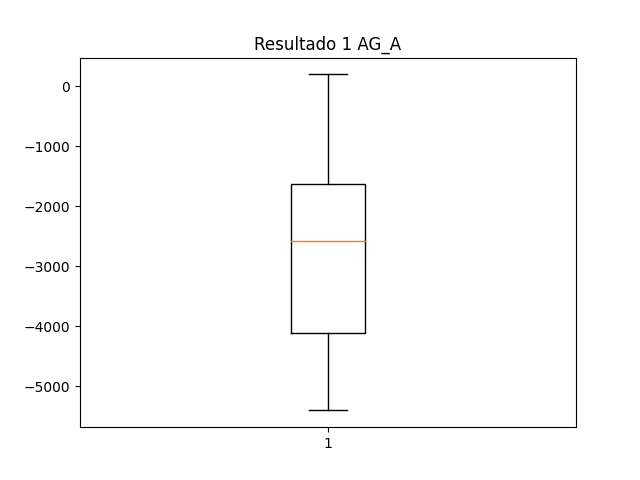
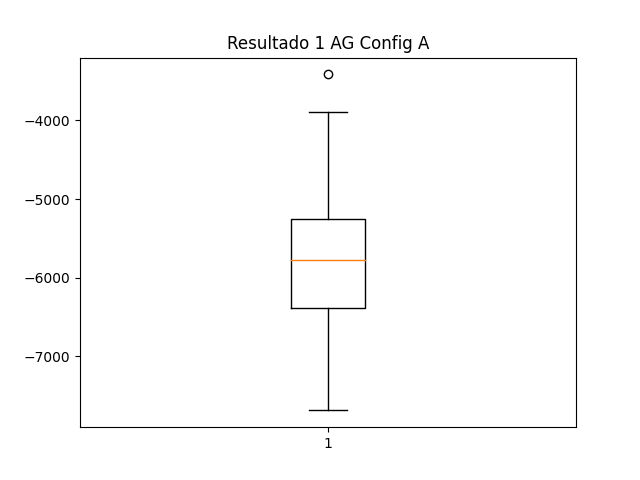
Execução 30x

diff --git a/main.py b/main.py
@@ -6,39 +6,19 @@ Trabalho prático 2 - CCF480 - MetaHeurísticas
 
 
 import matplotlib.pyplot as plt
-from numpy.random import seed, rand, randn
-from numpy import sin, sqrt, asarray, mean, std
+from numpy import mean, std
 from AG import *
 
-limInferior = [13, 0]
-limSuperior = [100, 100]
-pop = gerarPopulacaoInicial(100, 2, limInferior, limSuperior)
-for i in range(100):
-  print(pop[i])
 
-resultados = funcaoFitness(100, pop)
-for i in range(100):
-  print(resultados[i])
 
-teste = selecaoTorneio(100, pop, pop)
-for i in range(50):
-  print(teste[i])
 
-print(cruzamentoFlat(2, [[2, 3], [4, 1], [10, 9]]))
 
-teste = selecaoTorneio(100, pop, pop)
-for i in range(50):
-  print(teste[i])
 
-print(cruzamentoFlat(2, [[2, 3], [4, 1], [10, 9]]))
 
-muta = [[13, 5], [30, 28]]
-for j in range(2):
-  muta[j] = mutacaoUniforme(muta[j], limInferior, limSuperior)
-print(muta)
-
-print(questao1())
-
+'''
+print(questao1_A())
+print(questao1_B())
+'''
 #1
 Resultados1_AG_A = []
 Resultados1_AG_B = []
@@ -48,25 +28,32 @@ Resultados2_AG_B = []
 #fazer 30 vezes para cada funcao objetivo e algoritmo, adicionar em listas correspondentes
 
 
-# adicionando seed de gerador rand
-seed()
 
 
 archive = open('Resultados.txt', 'w')
-archive.write("\nConfiguracoes:")
-'''archive.write("\nIteracoes no HC: " + str(iteracoes))
-archive.write("\nTamanho do passo no HC: " + str(Tam_passoHC))
-archive.write("\nQuantidade de reinicios no ILS: " + str(reinicios))
-archive.write("\nTamanho da pertubação no ILS: " + str(Tam_P))
-archive.write("\n\nRealizando 30 iteracoes dos algoritmos...")'''
-print("Configuracoes:")
-'''print("Iteracoes no HC: ", iteracoes)
-print("Tamanho do passo no HC: ",Tam_passoHC)
-print("Quantidade de reinicios no ILS: ", reinicios)
-print("Tamanho da pertubação no ILS: ", Tam_P)
-print("\nRealizando 30 iteracoes dos algoritmos...")'''
+archive.write("\nConfiguracoes 1 AG Config A:")
+archive.write("\nTamanho da população: 10000")
+archive.write("\nCritério de parada:")
+archive.write("\n\tQuantidade de iterações sem uma melhora significativa: 5")
+archive.write("\n\nConfiguracoes 1 AG Config B:")
+archive.write("\nTamanho da população: 100000")
+archive.write("\nCritério de parada:")
+archive.write("\n\tQuantidade de iterações sem uma melhora significativa: 10")
+archive.write("\n\nRealizando 30 iteracoes dos algoritmos...")
+
+print("Configuracoes 1 AG Config A:")
+print("Tamanho da população: 10000")
+print("Critério de parada:")
+print("\tQuantidade de iterações sem uma melhora significativa: 5")
+print("\nConfiguracoes 1 AG Config B:")
+print("Tamanho da população: 100000")
+print("Critério de parada:")
+print("\tQuantidade de iterações sem uma melhora significativa: 10")
+print("\nRealizando 30 iteracoes dos algoritmos...")
+
 for i in range(30):
-   Resultados1_AG_A.append(questao1())
+   Resultados1_AG_A.append(questao1_A())
+   Resultados1_AG_B.append(questao1_B())
 
 archive.write("\n----------------------")
 archive.write("\nFuncao Objetivo 1 - AG  Config A:")
@@ -80,10 +67,10 @@ print("Max: ",max(Resultados1_AG_A))
 print("Media: ",mean(Resultados1_AG_A))
 print("Std: ",std(Resultados1_AG_A))
 plt.boxplot(Resultados1_AG_A)
-plt.title("Resultado 1 AG_A")
+plt.title("Resultado 1 AG Config A")
 plt.savefig('plots/1_AG_A.png', format='png')
 #plt.show()
-'''
+
 archive.write("\n\nFuncao Objetivo 1 - AG  Config B:")
 archive.write("\nMin: " + str(min(Resultados1_AG_B)))
 archive.write("\nMax: " + str(max(Resultados1_AG_B)))
@@ -97,11 +84,11 @@ print("Media: ", mean(Resultados1_AG_B))
 print("Std: ", std(Resultados1_AG_B))
 plt.clf()
 plt.boxplot(Resultados1_AG_B)
-plt.title("Resultado 1 AG_B")
+plt.title("Resultado 1 AG Config B")
 plt.savefig('plots/1_AG_B.png', format='png')
 #plt.show()
 
-
+'''
 archive.write("\nFuncao Objetivo 2 - AG  Config A:")
 archive.write("\nMin: " + str(min(Resultados2_AG_A)))
 archive.write("\nMax: " + str(max(Resultados2_AG_A)))

diff --git a/AG.py b/AG.py
@@ -87,10 +87,10 @@ def mutacaoUniforme(filho, limiteMin, limiteMax):
 #FUNÇÃO FINAL
 
 
-def questao1():
+def questao1_A():
   limInferior = [13, 0]
   limSuperior = [100, 100]
-  n = 1000  # quantidade
+  n = 10000  # quantidade
   t = 2  # tamanho do vetor
   filhos = [[0, 0] for i in range(n)]
   random.seed()
@@ -119,3 +119,33 @@ def questao1():
   return minimo
 
 
+def questao1_B():
+  limInferior = [13, 0]
+  limSuperior = [100, 100]
+  n = 100000  # quantidade
+  t = 2  # tamanho do vetor
+  filhos = [[0, 0] for i in range(n)]
+  random.seed()
+  populacao = gerarPopulacaoInicial(n, t, limInferior, limSuperior)
+  filhos = cruzamentoFlat(t, populacao)
+  for i in range(n):
+    filhos[i] = mutacaoUniforme(filhos[i], limInferior, limSuperior)
+
+  contador = 0
+  minimo = min(funcaoFitness(n, filhos))
+
+  while (contador < 10):
+    selecionados = selecaoTorneio(n, filhos, populacao)
+    populacao = deepcopy(filhos)
+    filhos = cruzamentoFlat(t, populacao)
+
+    for i in range(n):
+      filhos[i] = mutacaoUniforme(filhos[i], limInferior, limSuperior)
+
+    if (min(funcaoFitness(n, filhos)) > (minimo - abs(minimo)*0.01)):
+      contador += 1
+    else:
+      minimo = min(funcaoFitness(n, filhos))
+      contador = 0
+
+  return minimo
